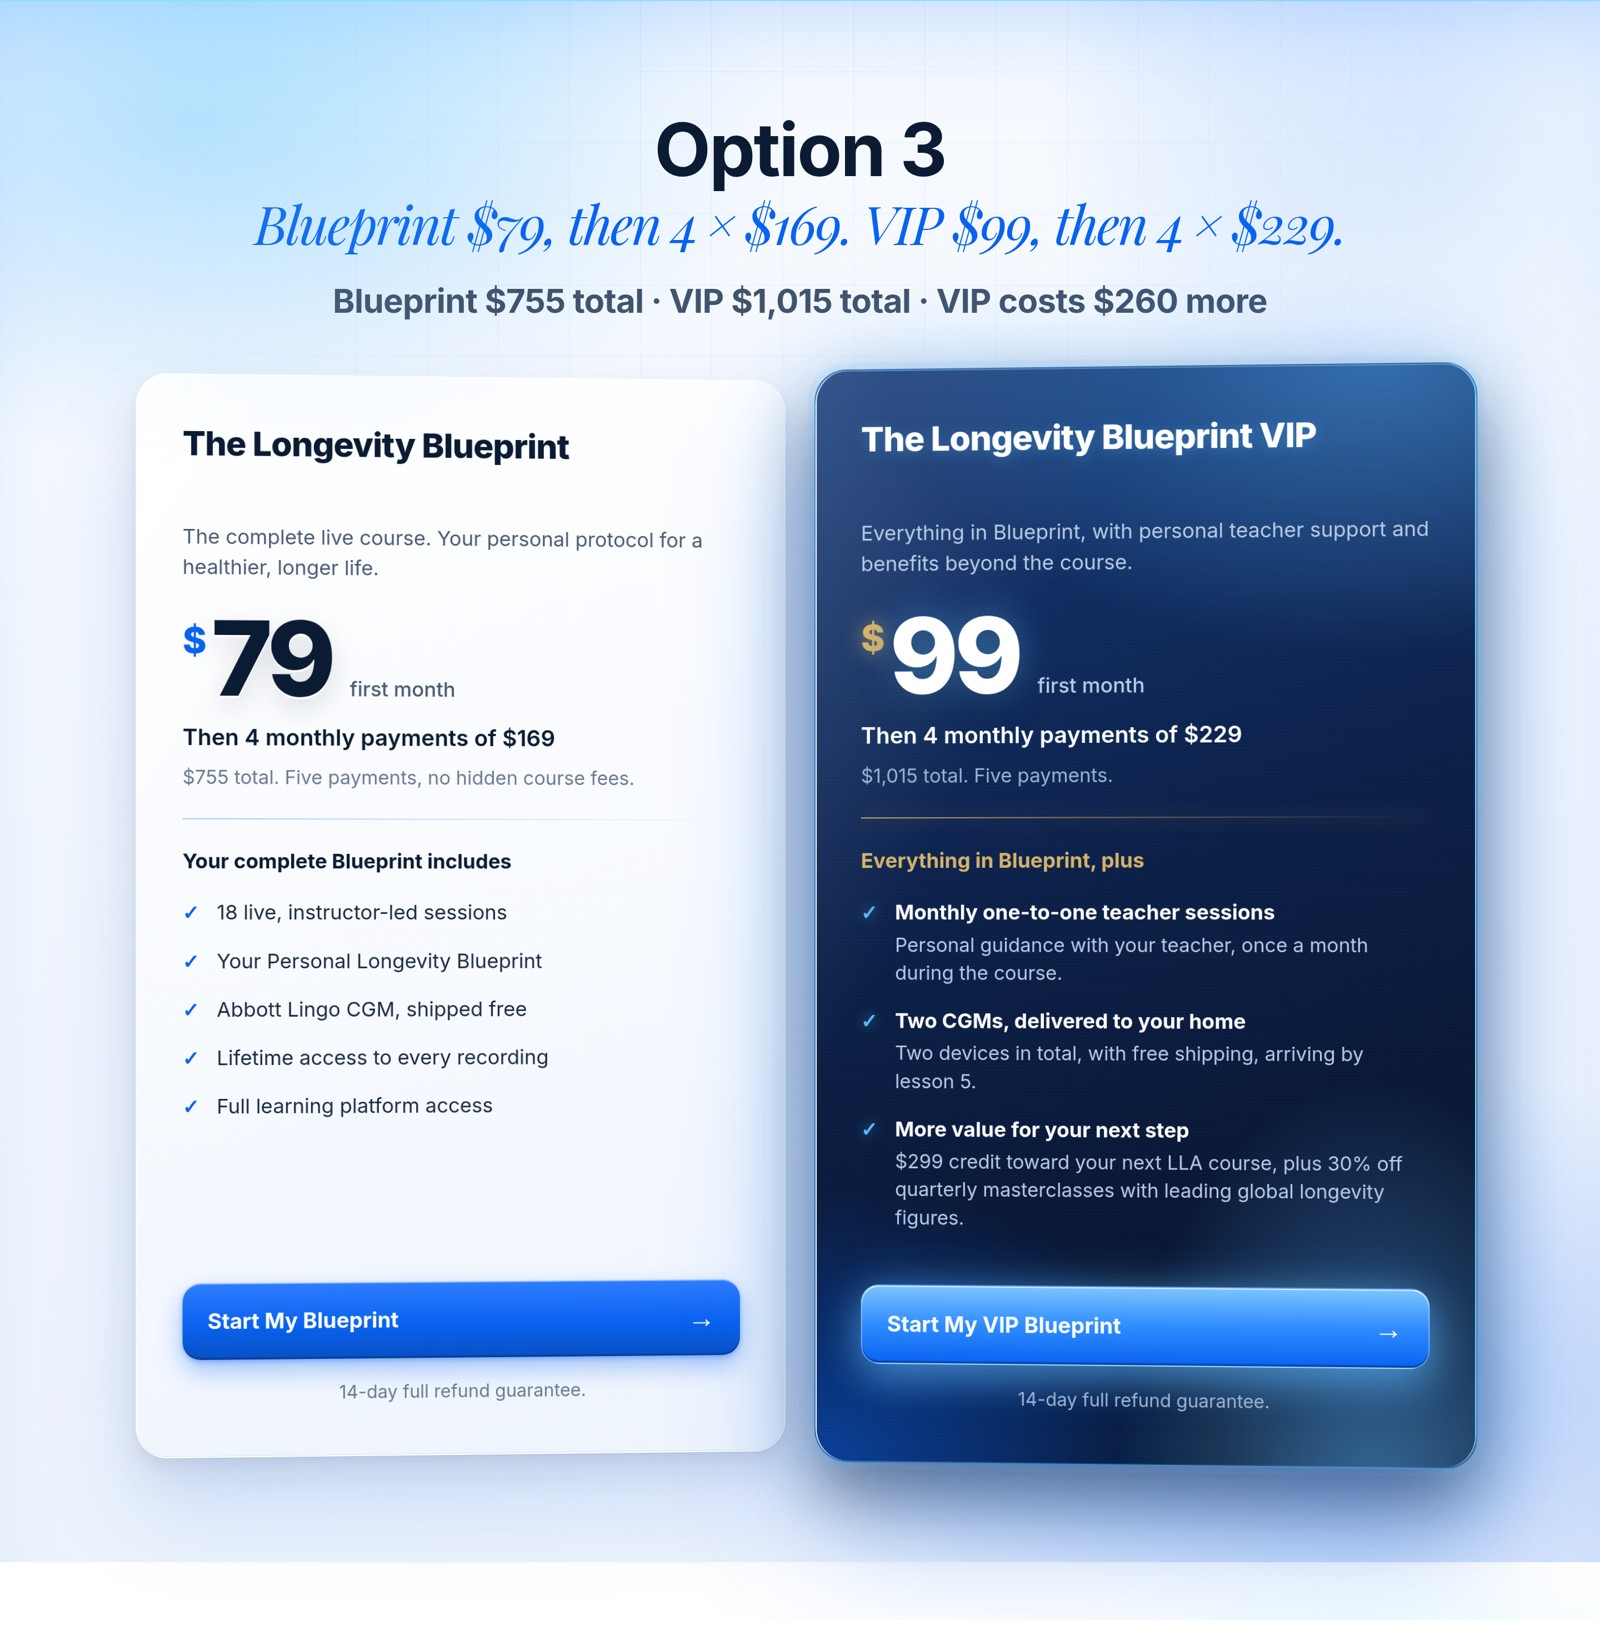
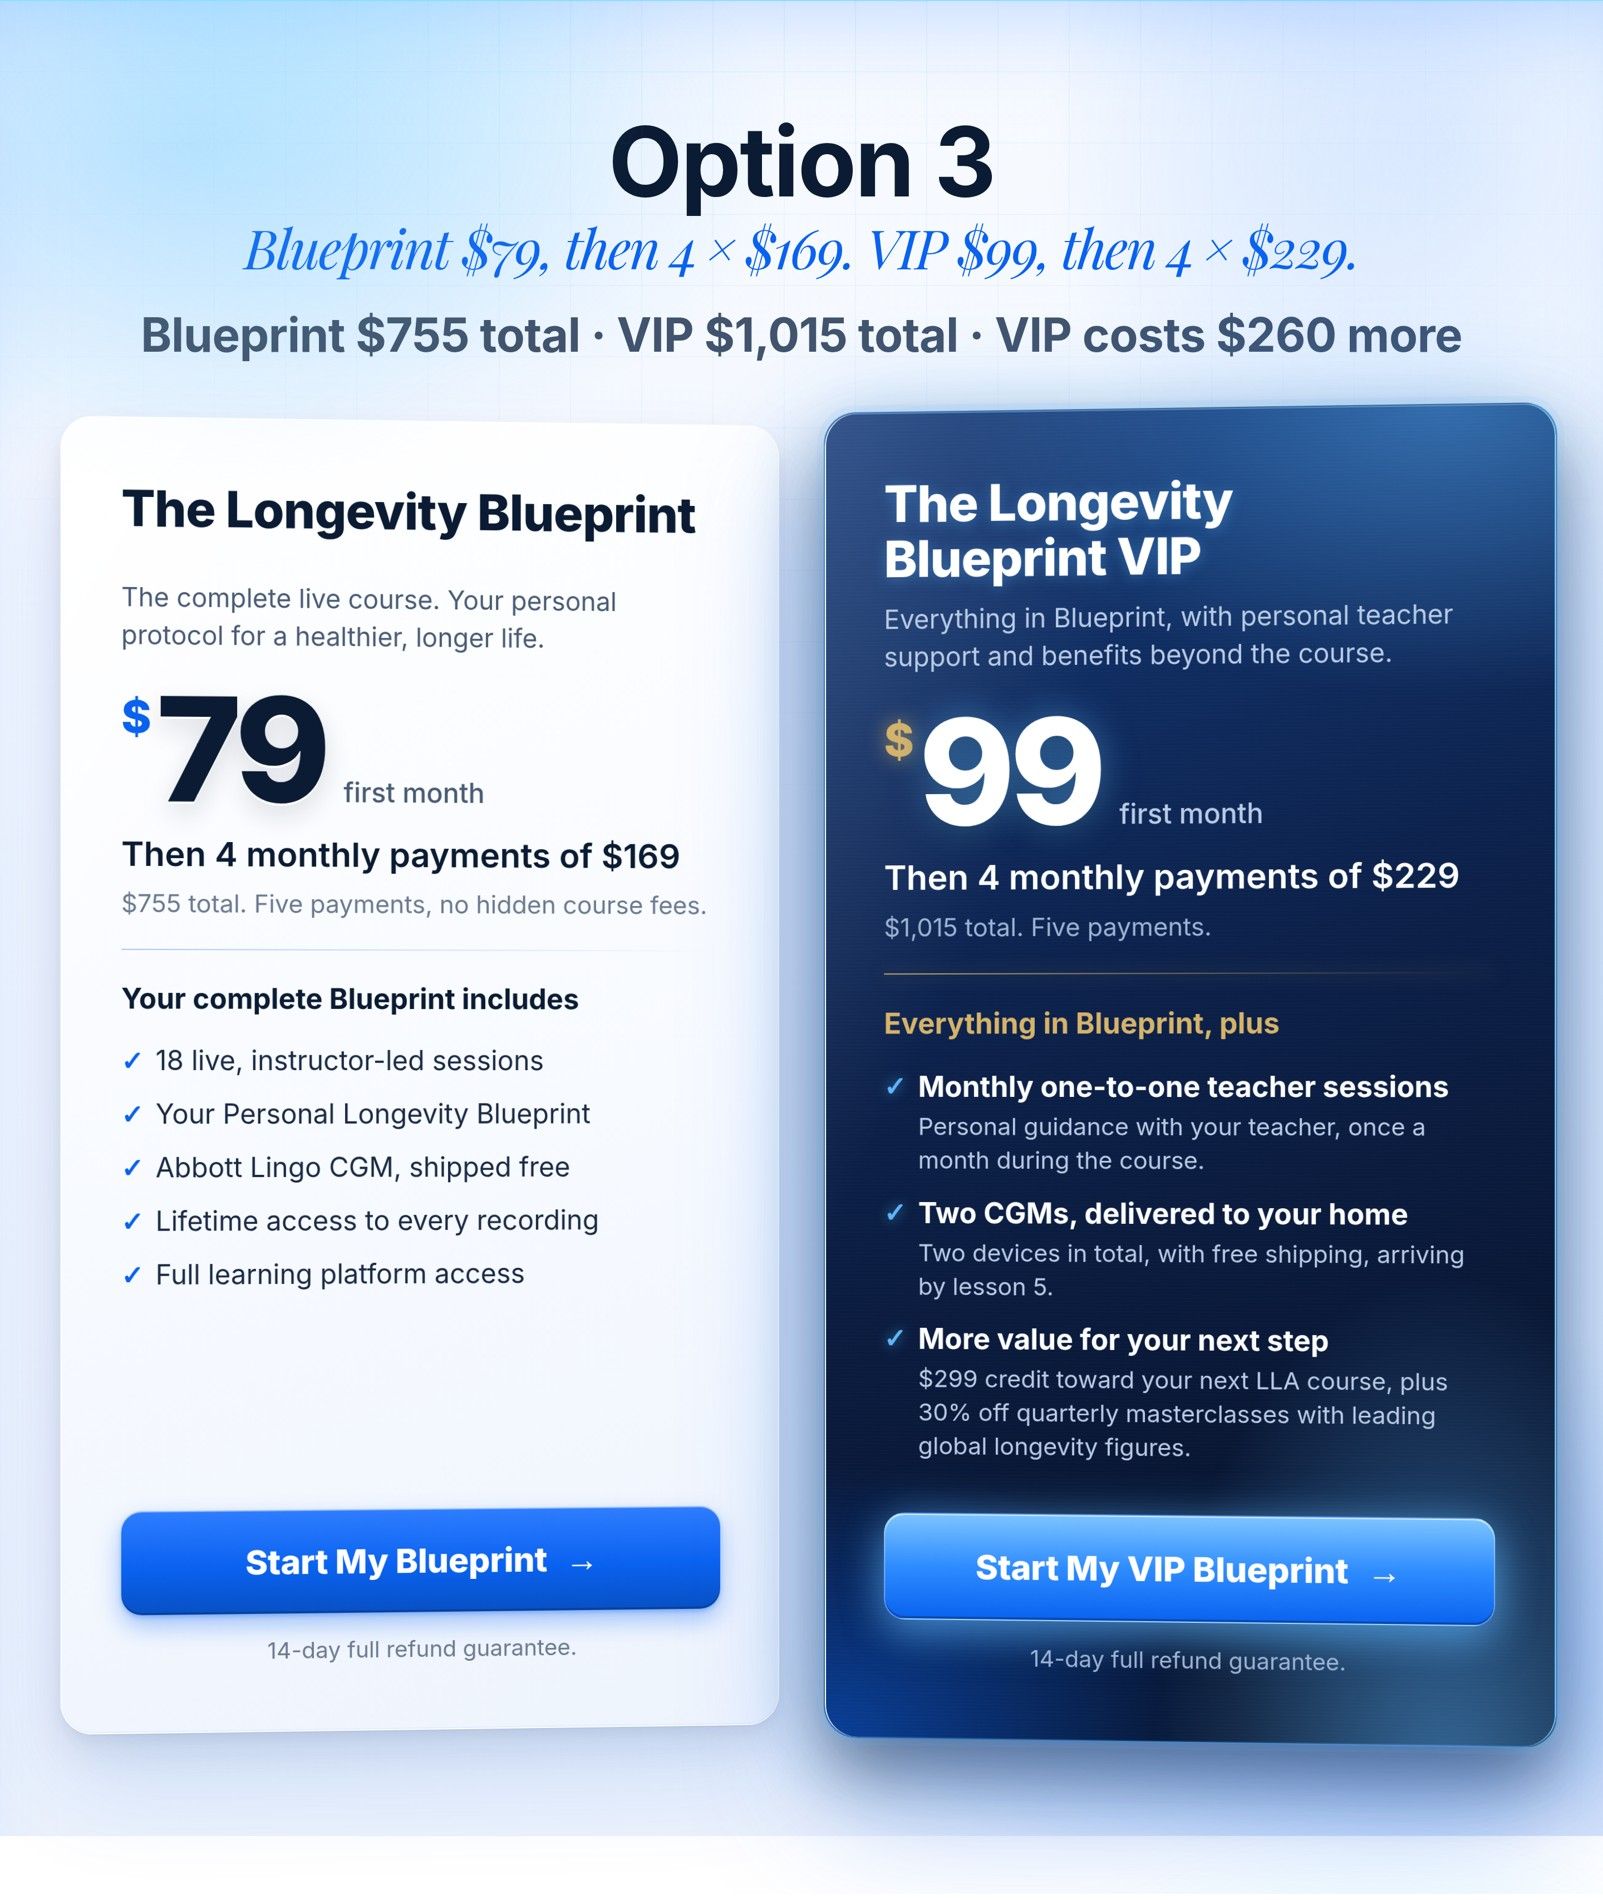
size pass: wide cards, 24 to 30px body, 128px price, big centered CTA

Changed region(s): [[0.0312, 0.0615, 1.0, 0.9846]]

diff --git a/compare/premium.css b/compare/premium.css
@@ -89,3 +89,41 @@
 #lpRoot .bp-card:not(.bp-vip)::before{background:linear-gradient(120deg,rgba(255,255,255,.7) 0%,rgba(255,255,255,0) 30%),radial-gradient(500px 260px at 15% -10%,rgba(94,182,255,.16),rgba(94,182,255,0) 70%)}
 #lpRoot .bp-card .bp-price strong{color:#0B1B33!important;-webkit-text-fill-color:#0B1B33!important}
 #lpRoot .bp-card.bp-vip .bp-price strong{-webkit-text-fill-color:#FFFFFF!important}
+/* v5 size pass */
+#lpRoot .bp-offer .bp-heading h2{font-size:clamp(44px,5vw,76px)!important;line-height:1.05!important}
+#lpRoot .bp-offer .bp-heading h2 em{font-size:.62em!important}
+#lpRoot .opt-sum{font-size:clamp(26px,2.6vw,36px)!important}
+#lpRoot .bp-card{padding:52px 48px!important}
+#lpRoot .bp-card h3{font-size:38px!important;line-height:1.1!important}
+#lpRoot .bp-card .bp-desc{font-size:21px!important;line-height:1.45!important}
+#lpRoot .bp-card .bp-price strong{font-size:112px!important;letter-spacing:-5px!important}
+#lpRoot .bp-card .bp-price sup{font-size:40px!important}
+#lpRoot .bp-card .bp-price span{font-size:24px!important}
+#lpRoot .bp-card .bp-follow{font-size:26px!important;line-height:1.3!important}
+#lpRoot .bp-card .bp-total{font-size:20px!important}
+#lpRoot .bp-card .bp-included{font-size:22px!important}
+#lpRoot .bp-card .bp-features li{font-size:21px!important;line-height:1.4!important;margin-bottom:12px!important}
+#lpRoot .bp-card .bp-features li b,#lpRoot .bp-card .bp-features li strong{font-size:22px!important}
+#lpRoot .bp-card .bp-features li .bp-detail,#lpRoot .bp-card .bp-features li small,#lpRoot .bp-card .bp-features li span{font-size:19px!important;line-height:1.4!important}
+#lpRoot .bp-card .bp-button{font-size:24px!important;padding:24px 34px!important;border-radius:18px!important;justify-content:space-between!important;letter-spacing:-.2px}
+#lpRoot .bp-card .bp-button span:last-child{font-size:28px!important}
+#lpRoot .bp-card .bp-guarantee{font-size:18px!important}
+/* v6 scale pass */
+#lpRoot .bp-offer .bp-wrap{max-width:1360px!important;width:100%!important;padding-left:24px;padding-right:24px}
+#lpRoot .bp-offer .bp-grid{gap:40px!important;max-width:1360px!important}
+#lpRoot .bp-card{padding:56px 52px!important}
+#lpRoot .bp-card h3{font-size:44px!important}
+#lpRoot .bp-card .bp-desc{font-size:23px!important}
+#lpRoot .bp-card .bp-price strong{font-size:128px!important}
+#lpRoot .bp-card .bp-follow{font-size:30px!important}
+#lpRoot .bp-card .bp-total{font-size:22px!important}
+#lpRoot .bp-card .bp-included{font-size:25px!important}
+#lpRoot .bp-card .bp-features li{font-size:24px!important;margin-bottom:14px!important}
+#lpRoot .bp-card .bp-features li b,#lpRoot .bp-card .bp-features li strong{font-size:25px!important}
+#lpRoot .bp-card .bp-features li .bp-detail,#lpRoot .bp-card .bp-features li small,#lpRoot .bp-card .bp-features li span{font-size:21px!important}
+#lpRoot .bp-card .bp-button{font-size:30px!important;font-weight:800!important;padding:28px 36px!important;justify-content:center!important;gap:16px!important;display:flex!important;align-items:center!important}
+#lpRoot .bp-card .bp-button span:last-child{font-size:30px!important}
+#lpRoot .bp-card .bp-guarantee{font-size:20px!important}
+#lpRoot .bp-offer .bp-heading h2{font-size:clamp(52px,6vw,92px)!important}
+#lpRoot .bp-offer .bp-heading h2 em{font-size:.56em!important}
+#lpRoot .opt-sum{font-size:clamp(28px,3vw,42px)!important}

diff --git a/options/index.html b/options/index.html
@@ -1780,7 +1780,7 @@ body.lla-em-open #et-bumpyard-widget{display:none!important}
   html body#lpRoot #hero .pdp-cine-sub{font-family:'Inter',sans-serif!important;font-style:normal!important;text-transform:none!important}
 }
 </style>
-<link rel="stylesheet" href="../relaunch.css?v=vip199"><style id="opt-only">body>*:not(section.bp-offer):not(script):not(style){display:none!important}body>section.bp-offer{display:block!important}.bp-foot{display:none!important}.opt-sum{font-size:clamp(22px,2.2vw,30px)!important;font-weight:700;color:#0B1B33;margin:18px auto 0;text-align:center;letter-spacing:-.4px;max-width:none!important;white-space:nowrap}.bp-heading h2 em{display:block;font-size:.72em;margin-top:6px}[class^="lla-cta"],.lla-cta,#llaCta,.lla-sticky-cta,.lla-float-cta,#llaFloatCta,[id^="llaFloat"],.lla-float-cta--home{display:none!important;visibility:hidden!important}</style><link rel="stylesheet" href="../compare/premium.css?v=p4"></head>
+<link rel="stylesheet" href="../relaunch.css?v=vip199"><style id="opt-only">body>*:not(section.bp-offer):not(script):not(style){display:none!important}body>section.bp-offer{display:block!important}.bp-foot{display:none!important}.opt-sum{font-size:clamp(22px,2.2vw,30px)!important;font-weight:700;color:#0B1B33;margin:18px auto 0;text-align:center;letter-spacing:-.4px;max-width:none!important;white-space:nowrap}.bp-heading h2 em{display:block;font-size:.72em;margin-top:6px}[class^="lla-cta"],.lla-cta,#llaCta,.lla-sticky-cta,.lla-float-cta,#llaFloatCta,[id^="llaFloat"],.lla-float-cta--home{display:none!important;visibility:hidden!important}</style><link rel="stylesheet" href="../compare/premium.css?v=p6"></head>
 <body id="lpRoot">
 <!-- Google Tag Manager (noscript) -->
 

diff --git a/compare/index.html b/compare/index.html
@@ -1,4 +1,4 @@
 <!doctype html><html lang="en"><head><meta charset="utf-8"><meta name="viewport" content="width=device-width,initial-scale=1"><meta name="robots" content="noindex"><title>Blueprint VIP pricing · 3 options</title>
 <style>body{margin:0;background:#F3F7FC;font-family:-apple-system,Inter,sans-serif;color:#0B1B33}.w{max-width:1100px;margin:0 auto;padding:16px 10px 40px}h1{font-size:22px;margin:6px 6px 14px;letter-spacing:-.3px}img{width:100%;display:block;border-radius:14px;box-shadow:0 6px 24px rgba(11,27,51,.12);margin-bottom:18px;background:#fff}</style></head>
 <body><div class="w"><h1>Blueprint VIP pricing · 3 options</h1>
-<img src="option-1.jpg?v=4" alt="Option 1: VIP $99, then 4 × $199"><img src="option-2.jpg?v=4" alt="Option 2: VIP $129, then 4 × $229"><img src="option-3.jpg?v=4" alt="Option 3: VIP $99, then 4 × $229"></div></body></html>
+<img src="option-1.jpg?v=6" alt="Option 1: VIP $99, then 4 × $199"><img src="option-2.jpg?v=6" alt="Option 2: VIP $129, then 4 × $229"><img src="option-3.jpg?v=6" alt="Option 3: VIP $99, then 4 × $229"></div></body></html>
